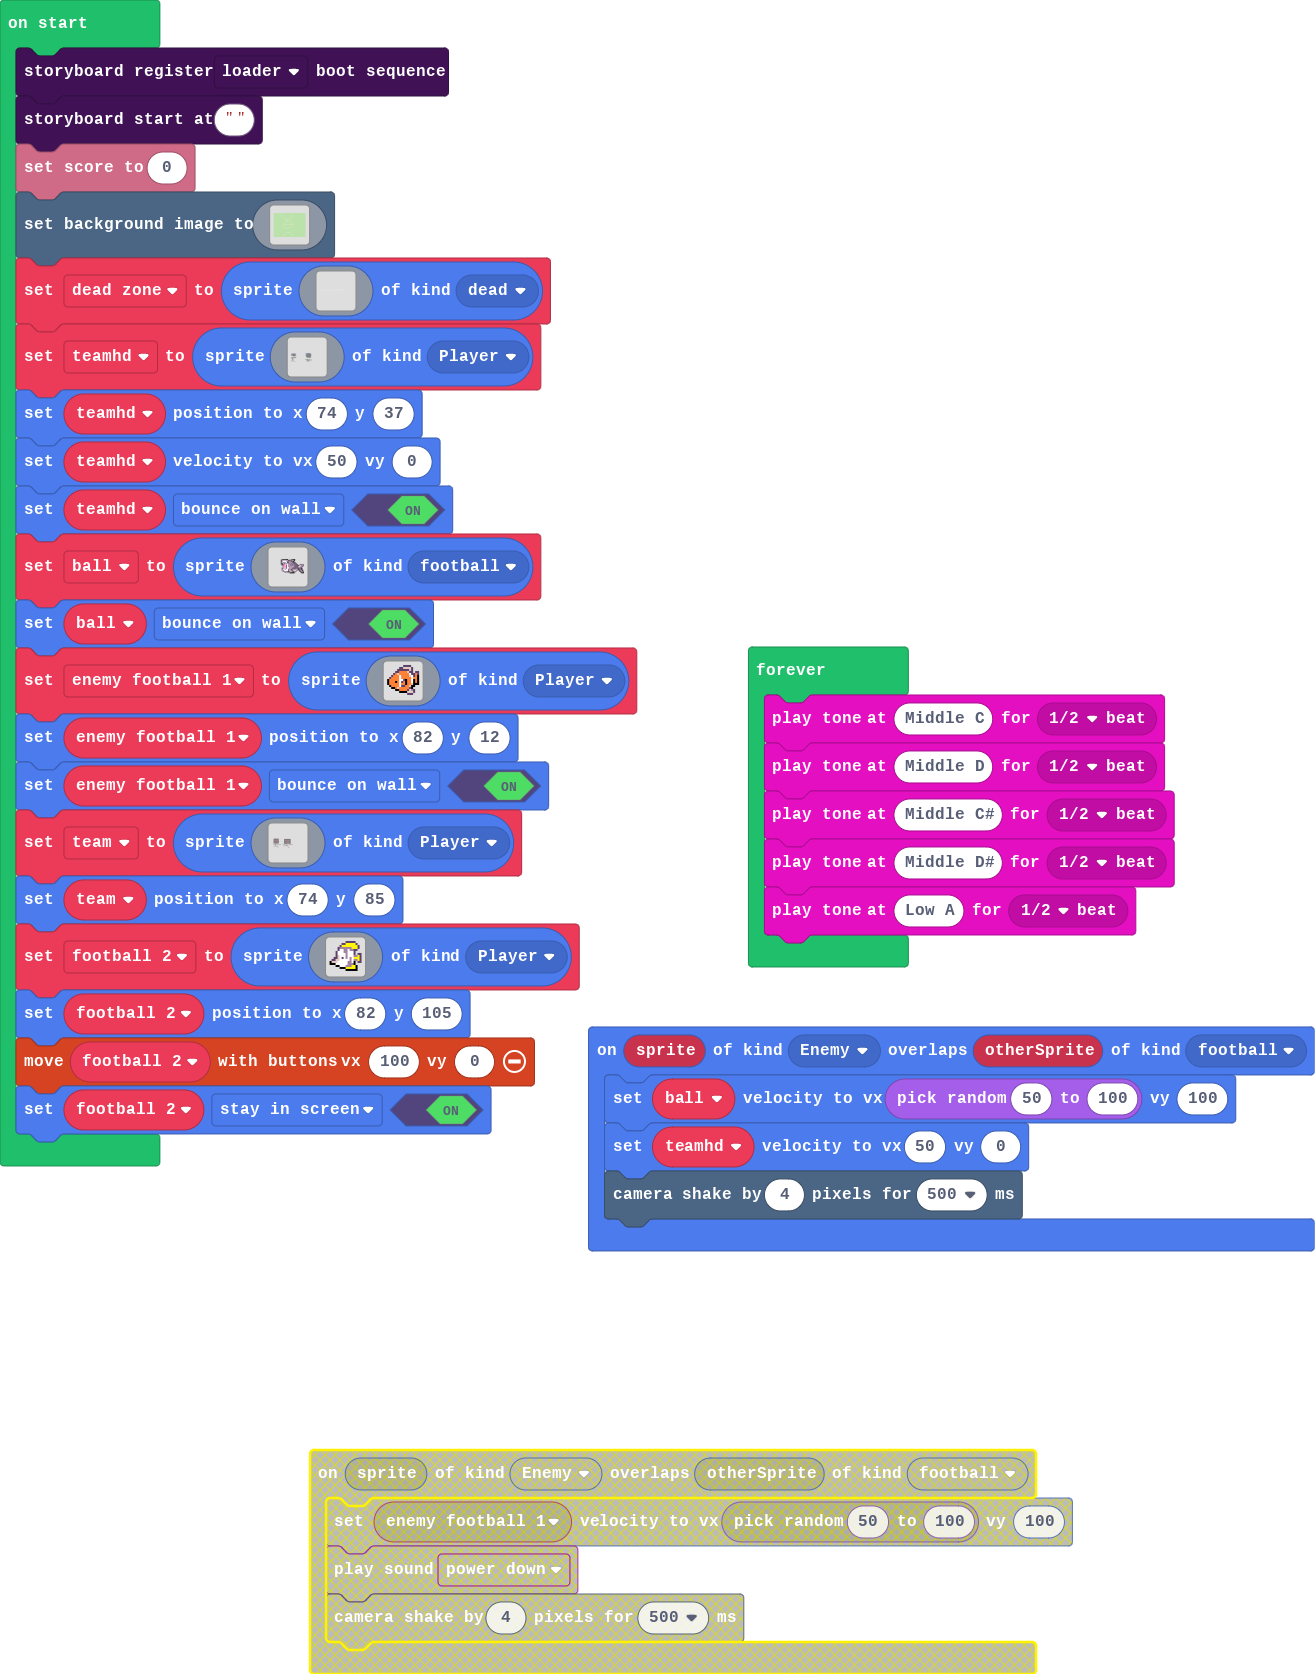
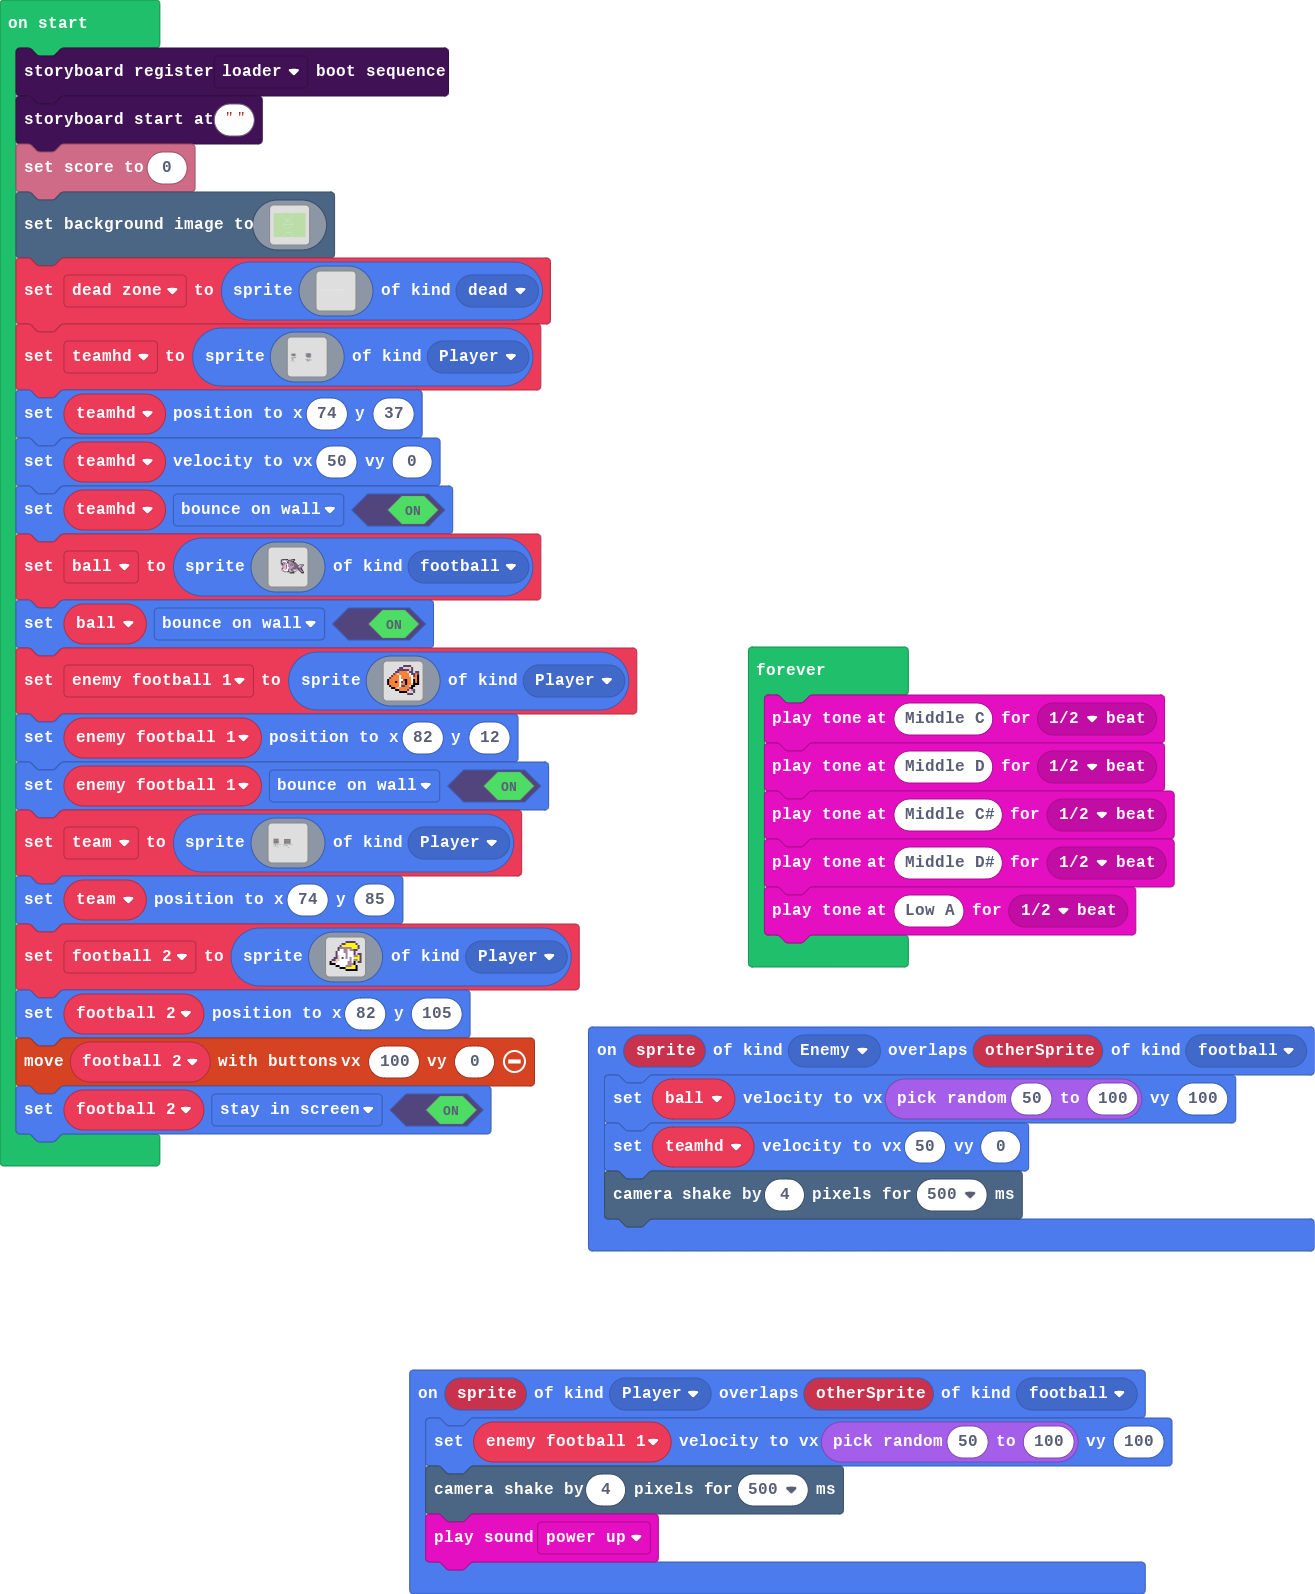
Update pxt.json, main.blocks, main.ts

diff --git a/main.ts b/main.ts
@@ -7,6 +7,12 @@ sprites.onOverlap(SpriteKind.Enemy, SpriteKind.football, function (sprite, other
     teamhd.setVelocity(50, 0)
     scene.cameraShake(4, 500)
 })
+sprites.onOverlap(SpriteKind.Player, SpriteKind.football, function (sprite, otherSprite) {
+    enemy_football_1.setVelocity(randint(50, 100), 100)
+    scene.cameraShake(4, 500)
+    music.powerUp.play()
+})
+let enemy_football_1: Sprite = null
 let ball: Sprite = null
 let teamhd: Sprite = null
 storyboard.loaderBootSequence.register()
@@ -220,7 +226,7 @@ ball = sprites.create(img`
     ....................fffff........fff
     `, SpriteKind.football)
 ball.setFlag(SpriteFlag.BounceOnWall, true)
-let enemy_football_1 = sprites.create(img`
+enemy_football_1 = sprites.create(img`
     . . . . . . . . c c c c . . . . 
     . . . . . . c c d d d d c . . . 
     . . . . . c c c c c c d c . . . 
